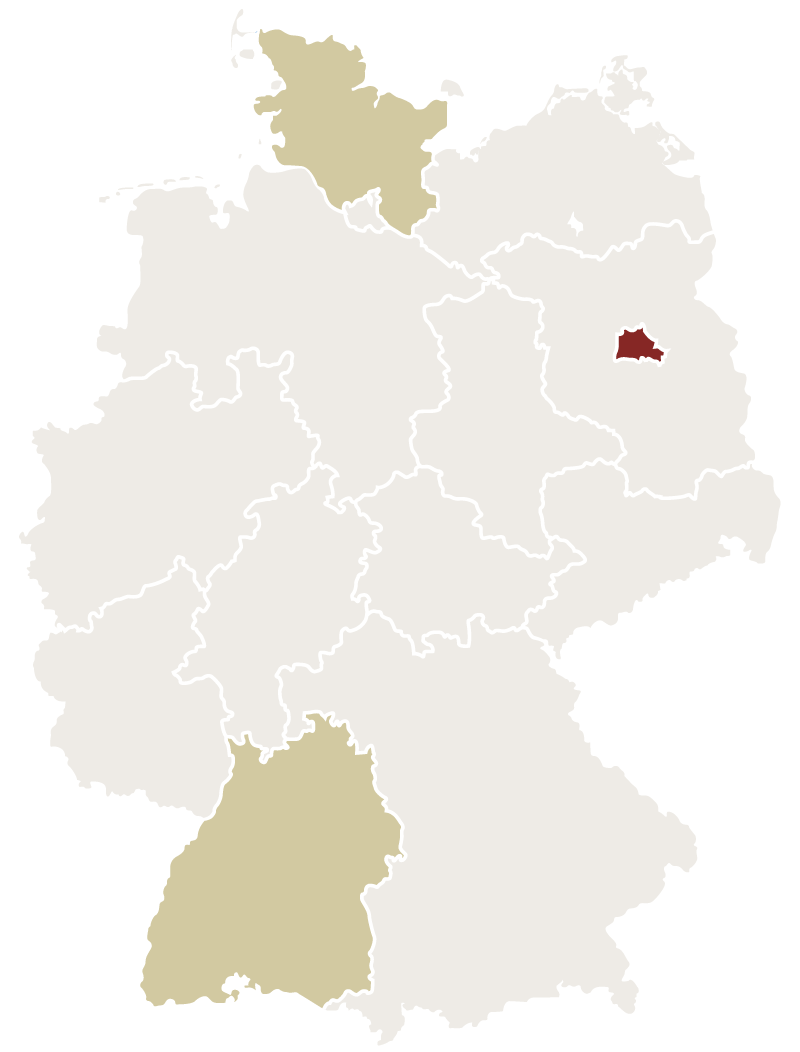
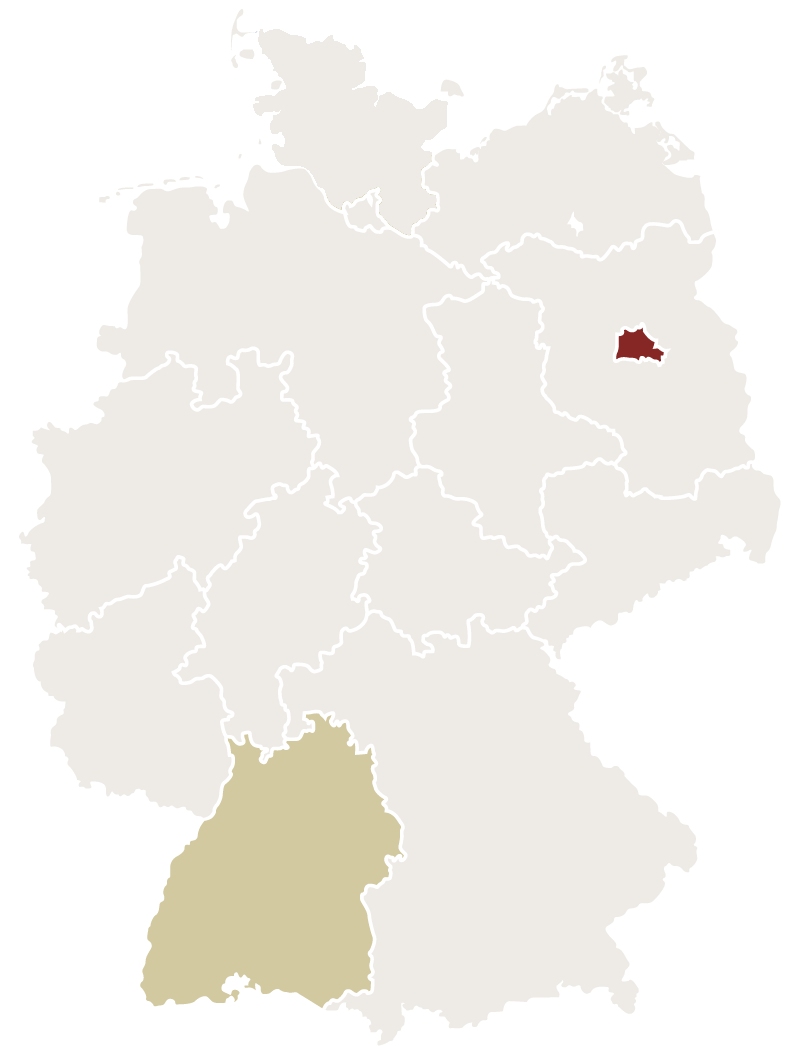
korrekte Reiseziele

Changed region(s): [[0.3125, 0.0304, 0.5625, 0.2433]]

diff --git a/10-reiseland.html b/10-reiseland.html
@@ -197,21 +197,21 @@
                             <img src="assets/images/maps/map-italy-default.png" usemap="#map_it_side" width="800" height="937" alt="" class="img-full">
                             <div class="output red-text"></div>
                             <map name="map_it_side" data-src-default="assets/images/maps/map-italy-default.png" data-parentboxid="sidecontent_map_italy">
-								<area shape="poly" coords="413,118,411,122,400,119,395,124,387,120,384,111,379,108,378,98,383,92,378,85,373,84,373,78,383,72,383,64,394,64,391,60,395,56,400,57,399,46,407,50,424,51,430,55,438,52,457,57,456,64,450,64,449,70,442,74,439,80,441,86,445,83,450,88,454,87,455,91,445,99,445,105,448,107,451,104,454,108,451,114,451,121,457,121,466,127,470,136,469,141,458,141,458,139,463,138,454,126,449,124,448,129,436,134,439,130,425,126,420,130,424,132,419,137,415,123" alt="Friaul-Julisch Venetien" data-id="it_side-1" data-src-target="assets/images/maps/map-italy-friauljulischvenetien.png" data-title-cord-x="65" data-title-cord-y="5" href="10-reiseland.html#venetien" />
-								<area shape="poly" coords="358,46,356,55,350,59,343,58,341,61,346,62,343,71,339,73,346,81,351,88,344,94,334,95,332,107,330,108,322,102,313,105,314,110,311,111,309,109,299,131,291,129,286,132,280,127,283,122,280,117,271,116,268,120,264,120,259,114,260,110,257,102,260,99,260,95,264,91,264,84,266,81,263,76,265,74,262,70,268,69,268,62,264,60,261,58,258,55,259,46,254,44,254,40,257,35,257,32,261,26,261,26,272,24,277,29,277,29,276,32,293,35,300,18,300,18,312,15,319,17,322,14,324,17,329,13,329,13,339,17,360,8,366,7,366,13,361,14,366,25,370,24,372,27,374,34,382,42,376,50,365,51" alt="Trentino-Südtirol" data-id="it_side-2" data-src-target="assets/images/maps/map-italy-trentinosuedtirol.png" data-title-cord-x="65" data-title-cord-y="5" href="10-reiseland.html#suedtirol" />
-								<area shape="poly" coords="267,137,267,154,271,154,271,164,276,164,285,174,288,174,293,179,294,184,300,181,306,187,312,196,303,197,300,200,293,196,282,200,277,198,275,198,273,193,268,193,263,200,253,197,252,193,250,192,247,193,235,186,232,189,228,185,225,179,223,180,219,177,218,178,220,181,215,183,211,179,209,184,206,182,205,178,198,178,198,182,191,180,181,196,185,200,181,209,182,216,174,217,172,204,168,204,165,202,165,199,162,193,162,191,159,188,157,189,156,182,153,182,147,185,144,184,141,184,140,176,136,172,137,169,133,159,136,154,142,155,144,161,150,156,148,152,153,152,151,143,147,142,144,125,138,117,142,112,141,106,150,96,151,88,158,92,158,95,155,95,155,99,162,106,161,114,168,115,171,109,166,102,167,94,172,95,172,90,185,77,186,65,184,61,186,55,191,56,194,59,197,55,199,57,195,61,201,72,211,75,212,70,227,68,229,74,233,77,233,81,240,79,236,72,239,65,233,63,234,53,236,48,245,46,249,53,257,53,259,59,267,63,267,68,261,70,263,74,262,77,265,81,263,85,263,91,258,95,259,99,256,101,259,110,258,115,263,122,270,121,271,117,279,119,274,131" alt="Lombardei" data-id="it_side-3" data-src-target="assets/images/maps/map-italy-lombardei.png" data-title-cord-x="65" data-title-cord-y="8" href="10-reiseland.html#lombardei" />
+								<area shape="poly" coords="413,118,411,122,400,119,395,124,387,120,384,111,379,108,378,98,383,92,378,85,373,84,373,78,383,72,383,64,394,64,391,60,395,56,400,57,399,46,407,50,424,51,430,55,438,52,457,57,456,64,450,64,449,70,442,74,439,80,441,86,445,83,450,88,454,87,455,91,445,99,445,105,448,107,451,104,454,108,451,114,451,121,457,121,466,127,470,136,469,141,458,141,458,139,463,138,454,126,449,124,448,129,436,134,439,130,425,126,420,130,424,132,419,137,415,123" alt="Friaul" data-id="it_side-1" data-src-target="assets/images/maps/map-italy-friauljulischvenetien.png" data-title-cord-x="65" data-title-cord-y="5" href="10-reiseland.html#venetien" />
+								<area shape="poly" coords="358,46,356,55,350,59,343,58,341,61,346,62,343,71,339,73,346,81,351,88,344,94,334,95,332,107,330,108,322,102,313,105,314,110,311,111,309,109,299,131,291,129,286,132,280,127,283,122,280,117,271,116,268,120,264,120,259,114,260,110,257,102,260,99,260,95,264,91,264,84,266,81,263,76,265,74,262,70,268,69,268,62,264,60,261,58,258,55,259,46,254,44,254,40,257,35,257,32,261,26,261,26,272,24,277,29,277,29,276,32,293,35,300,18,300,18,312,15,319,17,322,14,324,17,329,13,329,13,339,17,360,8,366,7,366,13,361,14,366,25,370,24,372,27,374,34,382,42,376,50,365,51" alt="Südtirol" data-id="it_side-2" data-src-target="assets/images/maps/map-italy-trentinosuedtirol.png" data-title-cord-x="65" data-title-cord-y="5" href="10-reiseland.html#suedtirol" />
+								<!--area shape="poly" coords="267,137,267,154,271,154,271,164,276,164,285,174,288,174,293,179,294,184,300,181,306,187,312,196,303,197,300,200,293,196,282,200,277,198,275,198,273,193,268,193,263,200,253,197,252,193,250,192,247,193,235,186,232,189,228,185,225,179,223,180,219,177,218,178,220,181,215,183,211,179,209,184,206,182,205,178,198,178,198,182,191,180,181,196,185,200,181,209,182,216,174,217,172,204,168,204,165,202,165,199,162,193,162,191,159,188,157,189,156,182,153,182,147,185,144,184,141,184,140,176,136,172,137,169,133,159,136,154,142,155,144,161,150,156,148,152,153,152,151,143,147,142,144,125,138,117,142,112,141,106,150,96,151,88,158,92,158,95,155,95,155,99,162,106,161,114,168,115,171,109,166,102,167,94,172,95,172,90,185,77,186,65,184,61,186,55,191,56,194,59,197,55,199,57,195,61,201,72,211,75,212,70,227,68,229,74,233,77,233,81,240,79,236,72,239,65,233,63,234,53,236,48,245,46,249,53,257,53,259,59,267,63,267,68,261,70,263,74,262,77,265,81,263,85,263,91,258,95,259,99,256,101,259,110,258,115,263,122,270,121,271,117,279,119,274,131" alt="Lombardei" data-id="it_side-3" data-src-target="assets/images/maps/map-italy-lombardei.png" data-title-cord-x="65" data-title-cord-y="8" href="10-reiseland.html#lombardei" /-->
 								<area shape="poly" coords="175,223,170,226,158,215,153,219,155,223,156,227,151,225,146,231,144,222,136,224,135,230,124,229,121,232,114,226,109,231,111,236,101,246,100,259,95,258,95,263,84,262,80,260,78,264,76,264,74,256,57,261,32,248,28,240,26,231,28,230,25,222,32,216,34,207,40,208,38,202,33,192,29,192,21,186,21,177,16,177,15,169,27,165,28,168,36,163,38,160,44,161,47,153,50,146,45,140,49,136,53,140,58,136,64,137,70,132,75,130,85,135,91,131,97,131,97,123,99,120,95,116,97,97,105,96,109,86,112,87,116,78,113,72,118,70,126,63,126,59,131,57,136,58,133,76,140,79,144,88,149,89,148,96,140,106,141,112,137,117,139,119,143,126,147,143,150,144,152,151,148,151,149,156,145,159,142,154,136,154,132,158,135,169,135,174,139,177,140,184,147,186,155,183,154,189,157,190,160,190,165,204,171,206,173,218" alt="Piemont" data-id="it_side-4" data-src-target="assets/images/maps/map-italy-piemont.png" data-title-cord-x="65" data-title-cord-y="8" href="10-reiseland.html#piemont" />
 								<area shape="poly" coords="214,277,189,257,183,256,174,247,174,251,168,247,166,244,145,238,126,247,123,260,112,262,110,269,105,274,107,277,97,285,76,291,72,293,70,291,63,291,63,281,77,265,80,265,80,262,95,264,97,263,96,259,101,260,102,247,112,236,111,231,114,228,121,234,125,230,136,230,137,225,142,224,145,232,152,227,158,228,155,219,158,217,169,227,176,225,175,221,180,222,184,227,187,224,193,230,188,241,195,239,201,241,205,247,214,256,214,261,216,260,218,265,221,264,222,269,226,269,226,275,220,275,213,270" alt="Ligurien" data-id="it_side-5" data-src-target="assets/images/maps/map-italy-ligurien.png" data-title-cord-x="3" data-title-cord-y="34" href="10-reiseland.html#ligurien" />
 								<area shape="poly" coords="371,199,370,205,376,212,374,215,369,208,369,226,369,242,371,245,376,262,398,283,397,292,392,296,385,292,385,289,374,284,367,289,360,288,360,297,358,303,342,297,331,292,331,289,328,281,336,269,330,270,324,270,327,266,321,266,313,260,306,266,299,266,303,271,290,272,286,269,282,274,272,265,263,266,263,270,253,261,253,259,247,255,239,255,223,242,225,240,216,235,208,244,205,245,202,240,196,238,190,240,194,230,188,223,184,225,181,221,175,220,175,218,183,216,182,209,186,200,183,196,192,181,199,183,199,179,204,179,206,183,209,184,211,182,215,184,221,183,225,181,232,191,236,188,247,194,250,193,252,199,264,201,269,194,272,194,273,198,284,201,292,197,300,202,304,198,313,197,313,194,316,199,320,198,326,200,327,203,339,194,357,195,360,200" alt="Emilia-Romagna" data-id="it_side-6" data-src-target="assets/images/maps/map-italy-emiliaromagna.png" data-title-cord-x="60" data-title-cord-y="19" href="10-reiseland.html#emilia-romagna" />
 								<area shape="poly" coords="368,301,374,307,371,311,368,308,362,311,364,316,357,325,358,327,356,331,354,333,359,339,360,344,363,341,365,343,357,349,353,348,351,349,352,352,345,357,345,366,347,364,349,367,345,378,347,380,342,383,337,387,334,385,336,394,334,396,336,400,326,409,321,407,321,412,323,417,316,419,312,424,308,423,298,421,294,426,288,419,290,417,295,418,294,408,291,408,289,402,284,400,283,393,267,387,269,378,263,373,258,372,253,375,248,379,248,388,246,389,249,393,246,395,243,389,228,391,227,385,232,384,235,386,238,382,242,385,246,380,252,374,251,369,254,365,253,344,246,330,241,324,240,318,237,289,227,275,227,268,222,268,222,263,219,263,215,258,215,256,206,246,212,244,215,237,223,240,222,242,239,257,246,256,252,260,263,272,265,267,272,266,282,276,286,271,290,274,305,272,301,267,306,267,313,262,320,268,324,267,323,271,333,270,327,281,330,293,358,303,362,303" alt="Toskana" data-id="it_side-7" data-src-target="assets/images/maps/map-italy-toskana.png" data-title-cord-x="60" data-title-cord-y="25" href="10-reiseland.html#toskana" />
-								<area shape="poly" coords="473,378,476,389,480,392,484,403,503,424,513,433,516,437,528,441,528,447,531,450,530,456,522,462,523,465,510,480,508,472,505,468,503,470,499,466,493,472,489,472,494,478,487,483,485,481,480,486,474,481,471,481,467,480,463,481,458,474,453,481,449,480,447,475,438,473,437,466,424,456,417,456,415,449,419,448,421,442,428,445,429,449,437,442,429,432,425,427,427,424,423,418,426,414,424,410,427,406,437,407,440,403,436,398,442,398,442,392,446,393,450,385,458,387,461,381" alt="Abruzzen" data-id="it_side-8" data-src-target="assets/images/maps/map-italy-abruzzen.png" data-title-cord-x="68" data-title-cord-y="38" href="10-reiseland.html#abruzzen" />
+								<!-- area shape="poly" coords="473,378,476,389,480,392,484,403,503,424,513,433,516,437,528,441,528,447,531,450,530,456,522,462,523,465,510,480,508,472,505,468,503,470,499,466,493,472,489,472,494,478,487,483,485,481,480,486,474,481,471,481,467,480,463,481,458,474,453,481,449,480,447,475,438,473,437,466,424,456,417,456,415,449,419,448,421,442,428,445,429,449,437,442,429,432,425,427,427,424,423,418,426,414,424,410,427,406,437,407,440,403,436,398,442,398,442,392,446,393,450,385,458,387,461,381" alt="Abruzzen" data-id="it_side-8" data-src-target="assets/images/maps/map-italy-abruzzen.png" data-title-cord-x="68" data-title-cord-y="38" href="10-reiseland.html#abruzzen" /-->
 								<area shape="poly" coords="546,501,554,507,554,511,551,514,556,518,561,519,566,522,563,530,566,536,576,534,585,539,587,545,579,556,573,555,575,569,581,574,578,578,584,580,588,592,597,597,598,603,603,608,602,612,596,617,598,619,595,629,591,625,584,627,580,634,575,633,571,630,567,630,568,628,557,618,554,619,544,611,545,608,545,602,549,601,543,587,533,574,529,577,524,577,518,581,515,579,505,584,495,587,496,585,514,571,512,567,500,560,493,565,489,561,483,569,479,572,472,572,473,566,479,570,483,566,484,556,475,543,476,541,465,525,472,520,472,508,479,503,482,509,486,513,489,511,486,508,487,502,496,502,509,508,513,508,515,512,518,511,522,513,524,509,530,509,532,505,538,508,541,505,544,506" alt="Kampanien" data-id="it_side-9" data-src-target="assets/images/maps/map-italy-kampanien.png" data-title-cord-x="33" data-title-cord-y="63" href="10-reiseland.html#kampanien" />
-								<area shape="poly" coords="647,618,662,618,658,625,662,632,654,642,652,651,655,652,656,659,669,664,672,660,678,668,692,674,692,676,701,680,697,685,698,694,700,697,698,707,704,713,703,719,698,726,691,726,687,723,665,736,660,744,663,769,653,779,649,779,636,796,634,809,628,816,618,815,611,817,597,809,600,804,597,800,600,797,597,790,597,787,611,782,617,759,611,752,611,750,616,748,621,743,631,743,636,739,636,726,628,716,624,706,622,688,618,682,618,678,610,670,606,661,603,647,603,642,600,637,609,630,611,633,614,630,624,640,627,637,632,637,634,636,639,636,642,639,645,631,645,625" alt="Kalabrien" data-id="it_side-10" data-src-target="assets/images/maps/map-italy-kalabrien.png" data-title-cord-x="45" data-title-cord-y="72" href="10-reiseland.html#kalabrien" />
-								<area shape="poly" coords="570,736,571,741,566,741,559,753,557,755,551,763,552,769,555,775,553,778,549,775,550,772,547,766,548,764,538,760,524,762,509,764,508,761,523,758,544,759,543,762,549,763,558,752,568,736" alt="Äolische Inseln" data-id="it_side-11" data-src-target="assets/images/maps/map-italy-aeolischeinseln.png" data-title-cord-x="35" data-title-cord-y="72" href="10-reiseland.html#aoelischeinseln" />
+								<!-- area shape="poly" coords="647,618,662,618,658,625,662,632,654,642,652,651,655,652,656,659,669,664,672,660,678,668,692,674,692,676,701,680,697,685,698,694,700,697,698,707,704,713,703,719,698,726,691,726,687,723,665,736,660,744,663,769,653,779,649,779,636,796,634,809,628,816,618,815,611,817,597,809,600,804,597,800,600,797,597,790,597,787,611,782,617,759,611,752,611,750,616,748,621,743,631,743,636,739,636,726,628,716,624,706,622,688,618,682,618,678,610,670,606,661,603,647,603,642,600,637,609,630,611,633,614,630,624,640,627,637,632,637,634,636,639,636,642,639,645,631,645,625" alt="Kalabrien" data-id="it_side-10" data-src-target="assets/images/maps/map-italy-kalabrien.png" data-title-cord-x="45" data-title-cord-y="72" href="10-reiseland.html#kalabrien" /-->
+								<!-- area shape="poly" coords="570,736,571,741,566,741,559,753,557,755,551,763,552,769,555,775,553,778,549,775,550,772,547,766,548,764,538,760,524,762,509,764,508,761,523,758,544,759,543,762,549,763,558,752,568,736" alt="Äolische Inseln" data-id="it_side-11" data-src-target="assets/images/maps/map-italy-aeolischeinseln.png" data-title-cord-x="35" data-title-cord-y="72" href="10-reiseland.html#aoelischeinseln" /-->
 								<area shape="poly" coords="592,781,599,785,594,789,596,791,590,805,569,831,572,834,568,848,563,853,563,868,572,871,577,876,570,878,573,883,580,894,577,897,566,913,564,916,568,926,564,930,560,925,555,926,551,923,546,922,543,926,535,923,529,919,520,918,516,907,507,898,495,889,485,890,482,891,478,890,474,886,469,886,453,874,444,874,445,871,434,866,434,864,425,856,416,857,412,850,398,849,393,851,347,915,348,920,345,922,337,918,338,913,344,915,392,851,385,841,380,842,373,827,378,827,379,821,374,823,363,817,348,816,347,810,349,810,350,814,366,816,367,809,369,812,366,815,371,817,376,819,380,815,380,807,387,804,392,801,396,801,397,797,393,795,397,794,400,796,400,802,410,809,422,803,417,800,422,794,429,797,431,793,436,791,441,796,440,801,449,803,453,801,452,805,469,814,487,807,491,808,498,808,513,806,521,806,531,802,534,795,544,795,550,792,551,796,558,795,559,798,569,794,570,786,572,786,572,791,585,787" alt="Sizilien" data-id="it_side-12" data-src-target="assets/images/maps/map-italy-sizilien.png" data-title-cord-x="20" data-title-cord-y="87" href="10-reiseland.html#sizilien" />
 								<area shape="poly" coords="768,582,783,599,788,611,788,616,783,621,780,642,774,639,768,639,752,627,754,623,750,621,753,618,752,612,747,610,742,601,719,600,698,592,699,586,692,582,686,583,676,595,671,587,667,587,663,564,655,562,653,565,650,562,646,568,630,555,630,549,623,551,615,546,617,541,615,538,613,538,613,535,607,534,605,531,601,532,602,537,598,534,593,535,588,535,586,537,577,533,567,534,564,529,567,522,552,514,555,510,555,507,547,500,545,501,542,492,545,488,549,490,556,482,554,479,553,467,555,461,569,463,571,464,583,463,586,461,593,462,611,459,617,459,624,462,626,468,625,475,621,478,614,485,609,488,607,493,608,499,617,504,641,517,650,519,655,522,671,527,682,532,695,536,705,547,709,547,717,554,728,556,737,561,740,565,748,565,748,569,751,567,754,571,754,576,763,581" alt="Apulien" data-id="it_side-13" data-src-target="assets/images/maps/map-italy-apulien.png" data-title-cord-x="35" data-title-cord-y="63" href="10-reiseland.html#apulien" />
 								<area shape="poly" coords="200,583,201,590,196,599,194,599,187,608,187,613,189,619,195,624,190,635,193,636,190,639,190,644,187,665,187,670,185,674,183,690,185,693,181,696,180,706,176,711,174,707,167,706,160,700,154,698,151,703,145,699,142,704,144,711,141,720,129,729,120,724,114,730,114,726,111,726,112,721,109,720,109,713,104,710,100,720,94,709,88,706,87,702,85,701,91,698,93,702,92,706,95,711,96,706,99,707,102,705,100,704,100,701,96,696,102,689,98,682,100,678,98,674,103,669,104,665,104,648,109,652,109,644,111,641,110,636,107,636,103,642,102,637,100,628,104,625,101,624,101,622,107,623,109,620,107,616,107,606,107,599,102,597,103,590,102,585,98,580,98,576,91,577,91,573,89,578,87,570,91,569,92,566,88,561,90,559,90,554,93,549,92,542,96,533,98,533,99,530,102,527,105,529,104,534,100,533,97,537,99,539,95,540,96,546,102,553,108,552,112,555,121,553,121,549,130,546,136,546,139,541,139,538,141,538,149,529,152,529,156,529,159,527,158,522,156,520,161,520,163,518,168,525,170,520,169,514,173,516,171,521,175,518,178,519,177,522,180,521,182,524,178,526,174,524,177,533,179,529,183,528,186,533,182,538,192,542,192,544,186,543,185,549,186,551,189,548,190,550,190,554,196,549,197,555,195,558,192,561,195,566,195,569,197,569,196,576" alt="Sardinien" data-id="it_side-14" data-src-target="assets/images/maps/map-italy-sardinien.png" data-title-cord-x="30" data-title-cord-y="63" href="10-reiseland.html#sardinien" />
-								<area shape="poly" coords="434,521,426,524,421,529,417,527,415,521,407,512,402,510,399,511,393,507,389,509,379,493,371,485,361,481,362,475,356,465,351,463,343,455,336,457,328,440,326,434,313,425,316,420,325,418,322,411,323,409,328,411,338,400,336,395,337,392,335,387,338,388,342,384,348,391,343,395,353,401,361,399,365,402,364,405,367,408,367,413,374,416,376,415,377,419,378,425,382,424,384,426,389,421,389,418,391,420,397,419,396,416,400,411,404,411,407,407,407,405,410,405,416,403,421,401,425,402,427,398,426,394,427,391,437,396,435,398,439,403,436,406,426,405,423,411,424,414,422,417,425,425,424,427,435,442,430,448,429,445,421,442,419,447,415,449,416,456,424,457,437,466,437,473,446,475,447,479,454,481,458,476,463,482,470,481,475,483,479,487,479,495,481,497,480,502,471,507,471,520,465,525,461,525,455,524,452,525,453,530,448,527,439,523" alt="Latium" data-id="it_side-15" data-src-target="assets/images/maps/map-italy-latium.png" data-title-cord-x="34" data-title-cord-y="58" href="10-reiseland.html#latium" />
+								<!-- area shape="poly" coords="434,521,426,524,421,529,417,527,415,521,407,512,402,510,399,511,393,507,389,509,379,493,371,485,361,481,362,475,356,465,351,463,343,455,336,457,328,440,326,434,313,425,316,420,325,418,322,411,323,409,328,411,338,400,336,395,337,392,335,387,338,388,342,384,348,391,343,395,353,401,361,399,365,402,364,405,367,408,367,413,374,416,376,415,377,419,378,425,382,424,384,426,389,421,389,418,391,420,397,419,396,416,400,411,404,411,407,407,407,405,410,405,416,403,421,401,425,402,427,398,426,394,427,391,437,396,435,398,439,403,436,406,426,405,423,411,424,414,422,417,425,425,424,427,435,442,430,448,429,445,421,442,419,447,415,449,416,456,424,457,437,466,437,473,446,475,447,479,454,481,458,476,463,482,470,481,475,483,479,487,479,495,481,497,480,502,471,507,471,520,465,525,461,525,455,524,452,525,453,530,448,527,439,523" alt="Latium" data-id="it_side-15" data-src-target="assets/images/maps/map-italy-latium.png" data-title-cord-x="34" data-title-cord-y="58" href="10-reiseland.html#latium" /-->
 								<area shape="poly" coords="408,139,392,150,381,154,380,157,374,158,370,174,372,178,372,185,377,189,386,196,380,211,376,211,371,205,371,199,361,199,359,194,339,194,328,201,326,198,318,198,312,192,300,180,295,183,293,177,289,173,285,173,278,164,272,162,272,152,268,154,268,138,274,131,279,120,281,119,282,122,279,127,286,133,293,130,300,132,309,110,315,111,314,106,322,103,330,108,333,107,334,95,343,94,352,88,340,73,345,70,347,61,343,61,343,59,352,59,358,56,358,48,365,52,377,50,384,43,388,47,391,45,399,47,399,56,395,55,391,60,392,63,384,63,382,72,373,78,373,85,378,85,380,93,378,97,378,108,384,112,386,121,397,125,399,120,412,123,413,120,419,138,413,137" alt="Venetien" data-id="it_side-16" data-src-target="assets/images/maps/map-italy-venetien.png" data-title-cord-x="65" data-title-cord-y="12" href="10-reiseland.html#venetien" />
                             </map>
                         </div>

diff --git a/inc/header.inc.html b/inc/header.inc.html
@@ -29,21 +29,23 @@
 	                    <li><a href="10-reisethema.html">Kochreisen</a></li>
 	                    <li><a href="10-reisethema.html">Genusswandern</a></li>
 	                    <li><a href="10-reisethema.html">Trüffelreise</a></li>
+                    	<li><a href="10-reisethema.html">Hausmacher-Metzgerei</a></li>
 	                    <li><a href="10-reisethema.html">Kulinarische Städtereisen</a></li>
 	                    <li><a href="10-reisethema.html">Kulinarik &amp; Kunst</a></li>
 	                    <li><a href="10-reisethema.html">Vegetarische Reisen</a></li>
                 	</ul>
                 </li>
                 <li>
-                	<a href="10-ueberuns.html" data-target="#Ueber-uns" class="dropdown-toggle">Über uns</a>
+                	<a href="10-ueberuns.html" data-target="#Ueber-uns" class="dropdown-toggle">Sapio</a>
                 	<ul class="nav navbar-subnav">
+	                    <li><a href="10-ueber-uns.html">Über uns</a></li>
 	                    <li><a href="10-team.html">Unser Team</a></li>
 	                    <li><a href="#">Beratung</a></li>
 	                    <li><a href="#">Nachhaltigkeit &amp; CSR</a></li>
 	                    <li><a href="10-incentivereisen.html">Incentive Reisen</a></li>
 	                    <li><a href="#">Offene Stellen</a></li>
 	                    <li><a href="10-presse.html">Presse</a></li>
-	                    <li><a href="10-ueberuns.html">Freunde</a></li>
+	                    <li><a href="#">Freunde</a></li>
 	                </ul>
                 </li>
             </ul>
@@ -68,14 +70,12 @@
                 <span>
                     <h6 data-parentboxid="Reiseziele"><a href="10-reiseland.html" title="" data-id="it-0">Italien</a></h6>
                     <ul>
-                        <li data-parentboxid="Reiseziele"><a href="10-reiseland.html" title="" data-id="it-1">Abruzzen</a></li>
                         <li data-parentboxid="Reiseziele"><a href="10-reiseland.html" title="" data-id="it-2">Apulien</a></li>
-                        <li data-parentboxid="Reiseziele"><a href="10-reiseland.html" title="" data-id="it-3">Äolische Inseln</a></li>
                         <li data-parentboxid="Reiseziele"><a href="10-reiseland.html" title="" data-id="it-4">Emilia-Romagna</a></li>
-                        <li data-parentboxid="Reiseziele"><a href="10-reiseland.html" title="" data-id="it-5">Friaul Julisch Venetien</a></li>
-                        <li data-parentboxid="Reiseziele"><a href="10-reiseland.html" title="" data-id="it-6">Latium</a></li>
+                        <li data-parentboxid="Reiseziele"><a href="10-reiseland.html" title="" data-id="it-5">Friaul</a></li>
+                        <li data-parentboxid="Reiseziele"><a href="10-reiseland.html" title="" data-id="it-8">Kampanien</a></li>
                         <li data-parentboxid="Reiseziele"><a href="10-reiseland.html" title="" data-id="it-9">Ligurien</a></li>
-                        <li data-parentboxid="Reiseziele"><a href="10-reiseland.html" title="" data-id="it-10">Lombardei</a></li>
+                        <li data-parentboxid="Reiseziele"><a href="10-reiseland.html" title="" data-id="it-11">Piemont</a></li>
                     </ul>
                 </span>
             </div>
@@ -83,11 +83,9 @@
                 <span>
                     <h6>&nbsp;</h6>
                     <ul>
-                        <li data-parentboxid="Reiseziele"><a href="10-reiseland.html" title="" data-id="it-11">Piemont</a></li>
                         <li data-parentboxid="Reiseziele"><a href="10-reiseland.html" title="" data-id="it-12">Sardinien</a></li>
                         <li data-parentboxid="Reiseziele"><a href="10-reiseland.html" title="" data-id="it-13">Sizilien</a></li>
-                        <li data-parentboxid="Reiseziele"><a href="10-reiseland.html" title="" data-id="it-14">Trentino-Südtirol</a></li>
-                        <li data-parentboxid="Reiseziele"><a href="10-reiseland.html" title="" data-id="it-15">Südtoskana</a></li>
+                        <li data-parentboxid="Reiseziele"><a href="10-reiseland.html" title="" data-id="it-14">Südtirol</a></li>
                         <li data-parentboxid="Reiseziele"><a href="10-reiseland.html" title="" data-id="it-16">Toskana</a></li>
                         <li data-parentboxid="Reiseziele"><a href="10-reiseland.html" title="" data-id="it-18">Venetien</a></li>
                     </ul>
@@ -106,7 +104,6 @@
                     <ul>
                         <li data-parentboxid="Reiseziele"><a href="10-reiseland.html" title="" data-id="de-1">Baden-Württemberg</a></li>
                         <li data-parentboxid="Reiseziele"><a href="10-reiseland.html" title="" data-id="de-2">Berlin</a></li>
-                        <li data-parentboxid="Reiseziele"><a href="10-reiseland.html" title="" data-id="de-3">Schleswig-Holstein</a></li>
                     </ul>
                 </span>
             </div>
@@ -124,15 +121,16 @@
         </div>
         <div id="Reisethemen" class="row extendedmenu">
             <div class="col-xs-12 col-sm-12 col-md-8 markHeadingOfList">
-               	<img src="https://dummyimage.com/290x195/cccccc/000000.png&text=dummy" alt="" class="img-rounded markImage pull-left">
+               	<img src="https://dummyimage.com/327x220/cccccc/000000.png&text=dummy" alt="" class="img-rounded markImage pull-left">
                 <ul>
                     <li><a href="10-reisethema.html" class="fg-cap" title="" data-id="0">Weinreisen</a></li>
                     <li><a href="10-reisethema.html" class="fg-cap" title="" data-id="1">Kochreisen</a></li>
                     <li><a href="10-reisethema.html" class="fg-cap" title="" data-id="2">Genusswandern</a></li>
-                    <li><a href="10-reisethema.html" class="fg-cap" title="" data-id="3">Trüffelreise</a></li>
-                    <li><a href="10-reisethema.html" class="fg-cap" title="" data-id="4">Kulinarische Städtereisen</a></li>
-                    <li><a href="10-reisethema.html" class="fg-cap" title="" data-id="5">Kulinarik &amp; Kunst</a></li>
-                    <li><a href="10-reisethema.html" class="fg-cap" title="" data-id="6">Vegetarische Reisen</a></li>
+                    <li><a href="10-reisethema.html" class="fg-cap" title="" data-id="3">Trüffelreisen</a></li>
+                    <li><a href="10-reisethema.html" class="fg-cap" title="" data-id="4">Hausmacher-Metzgerei</a></li>
+                    <li><a href="10-reisethema.html" class="fg-cap" title="" data-id="5">Kulinarische Städtereisen</a></li>
+                    <li><a href="10-reisethema.html" class="fg-cap" title="" data-id="6">Kulinarik &amp; Kunst</a></li>
+                    <li><a href="10-reisethema.html" class="fg-cap" title="" data-id="7">Vegetarische Reisen</a></li>
                 </ul>
             </div>
             <div class="hidden-xs hidden-sm col-md-4">
@@ -142,13 +140,14 @@
         <div id="Ueber-uns" class="row extendedmenu">
             <div class="col-xs-12">
                 <ul>
+	                <li><a href="10-ueber-uns.html" class="fg-cap" title="">Über uns</a></li>
                     <li><a href="10-team.html" class="fg-cap" title="">Unser Team</a></li>
                     <li><a href="#" class="fg-cap" title="">Beratung</a></li>
                     <li><a href="#" class="fg-cap" title="">Nachhaltigkeit &amp; CSR</a></li>
                     <li><a href="10-incentivereisen.html" class="fg-cap" title="">Incentive Reisen</a></li>
                     <li><a href="#" class="fg-cap" title="">Jobs</a></li>
                     <li><a href="10-presse.html" class="fg-cap" title="">Presse</a></li>
-                    <li><a href="10-ueberuns.html" class="fg-cap" title="">Freunde</a></li>
+                    <li><a href="#" class="fg-cap" title="">Freunde</a></li>
                 </ul>
             </div>
         </div>

diff --git a/inc/fintravelbox.inc.html b/inc/fintravelbox.inc.html
@@ -5,44 +5,38 @@
             <select name="reiseziel" id="reiseziel">
                 <option value="-1" selected>&nbsp;&nbsp;&nbsp;beliebig</option>
                 <option class="optionGroup">Italien</option>
-                <option value="0">&nbsp;&nbsp;&nbsp;Südtirol</option>
-                <option value="1">&nbsp;&nbsp;&nbsp;Triest</option>
-                <option value="2">&nbsp;&nbsp;&nbsp;Venedig</option>
-                <option value="4">&nbsp;&nbsp;&nbsp;Emilia</option>
-                <option value="6">&nbsp;&nbsp;&nbsp;Piemont</option>
-                <option value="8">&nbsp;&nbsp;&nbsp;Valle Maira</option>
-                <option value="9">&nbsp;&nbsp;&nbsp;Cinque Terre</option>
-                <option value="10">&nbsp;&nbsp;&nbsp;Südtoskana</option>
-                <option value="10">&nbsp;&nbsp;&nbsp;Rom</option>
-                <option value="11">&nbsp;&nbsp;&nbsp;Amalfiküste</option>
-                <option value="12">&nbsp;&nbsp;&nbsp;Apulien</option>
-                <option value="13">&nbsp;&nbsp;&nbsp;Äolische Inseln</option>
-                <option value="15">&nbsp;&nbsp;&nbsp;Ost-Sizilien</option>
+                <option value="0">&nbsp;&nbsp;&nbsp;Apulien</option>
+                <option value="1">&nbsp;&nbsp;&nbsp;Emilia-Romagna</option>
+                <option value="2">&nbsp;&nbsp;&nbsp;Friaul</option>
+                <option value="4">&nbsp;&nbsp;&nbsp;Kampanien</option>
+                <option value="6">&nbsp;&nbsp;&nbsp;Ligurien</option>
+                <option value="8">&nbsp;&nbsp;&nbsp;Piemont</option>
+                <option value="9">&nbsp;&nbsp;&nbsp;Sardinien</option>
+                <option value="10">&nbsp;&nbsp;&nbsp;Sizilien</option>
+                <option value="10">&nbsp;&nbsp;&nbsp;Südtirol</option>
+                <option value="11">&nbsp;&nbsp;&nbsp;Toskana</option>
+                <option value="12">&nbsp;&nbsp;&nbsp;Venetien</option>
                 <option class="optionGroup">Frankreich</option>
                 <option value="16">&nbsp;&nbsp;&nbsp;Burgund</option>
                 <option value="17">&nbsp;&nbsp;&nbsp;Languedoc</option>
                 <option class="optionGroup">Deutschland</option>
                 <option value="18">&nbsp;&nbsp;&nbsp;Berlin</option>
-                <option value="19">&nbsp;&nbsp;&nbsp;Rheinland</option>
-                <option value="20">&nbsp;&nbsp;&nbsp;Schwäbische Alb</option>
+                <option value="20">&nbsp;&nbsp;&nbsp;Baden-Württemberg</option>
             </select>
         </div>
         <label for="reisemonat" class="col-xs-4 col-sm-1 col-md-1 control-label">Reisezeit: </label>
         <div class="col-xs-8 col-sm-3 col-md-2">
             <select name="reisemonat" id="reisemonat">
                 <option value="-1" selected>&nbsp;&nbsp;&nbsp;beliebig</option>
-                <option class="optionGroup">2016</option>
-                <option value="2016-09">&nbsp;&nbsp;&nbsp;September</option>
-                <option value="2016-10">&nbsp;&nbsp;&nbsp;Oktober</option>
-                <option value="2016-11" selected>&nbsp;&nbsp;&nbsp;November</option>
-                <option value="2016-12">&nbsp;&nbsp;&nbsp;Dezember</option>
                 <option class="optionGroup">2017</option>
-                <option value="2017-01">&nbsp;&nbsp;&nbsp;Januar</option>
                 <option value="2017-02">&nbsp;&nbsp;&nbsp;Februar</option>
                 <option value="2017-03">&nbsp;&nbsp;&nbsp;März</option>
                 <option value="2017-04">&nbsp;&nbsp;&nbsp;April</option>
-                <option value="2017-05">&nbsp;&nbsp;&nbsp;May</option>
+                <option value="2017-05">&nbsp;&nbsp;&nbsp;Mai</option>
                 <option value="2017-06">&nbsp;&nbsp;&nbsp;Juni</option>
+                <option value="2017-06">&nbsp;&nbsp;&nbsp;August</option>
+                <option value="2017-06">&nbsp;&nbsp;&nbsp;September</option>
+                <option value="2017-06">&nbsp;&nbsp;&nbsp;Oktober</option>
             </select>
         </div>
         <div class="col-xs-8 col-xs-offset-4 col-sm-4 col-sm-offset-0 col-md-3 paddingleft15">

diff --git a/index.html b/index.html
@@ -109,7 +109,7 @@
                     </section>
                     <section class="row paddingsmallercols p0axs">
                         <h2 class="col-xs-12 col-md-4 margintop0">Unsere Reiseleiter</h2>
-                        <h2 class="col-md-8 margintop0 hidden-xs hidden-sm">Neugigkeiten</h2>
+                        <h2 class="col-md-8 margintop0 hidden-xs hidden-sm">Neuigkeiten</h2>
                     </section>
                     <section class="row paddingsmallercols" style="padding-bottom:12px;">
                         <div class="col-xs-12 col-md-4">
@@ -117,13 +117,13 @@
                                 <div class="carousel-inner">
                                     <a href="#" class="item active hiddenlink">
                                         <figure class="inlinecaption">
-                                            <img src="assets/images/start/reiseleiter.jpg" alt="" class="center-block img-rounded" />
+                                            <img src="assets/images/start/reiseleiter.jpg" alt="" class="center-block img-rounded img-full">
                                             <figcaption class="text-center singleline fg-size90">Bert Van den Abeele</figcaption>
                                         </figure>
                                     </a>
                                     <a href="#" class="item hiddenlink">
                                         <figure class="inlinecaption">
-                                            <img src="assets/images/start/reiseleiter.jpg" alt="" class="center-block img-rounded" />
+                                            <img src="assets/images/start/reiseleiter.jpg" alt="" class="center-block img-rounded img-full">
                                             <figcaption class="text-center singleline fg-size90">Pät von der Behrendt</figcaption>
                                         </figure>
                                     </a>
@@ -138,7 +138,7 @@
                                 </a>
                             </aside>
                         </div>
-                        <h2 class="col-xs-12 margintop0 visible-xs visible-sm">Neugigkeiten</h2>
+                        <h2 class="col-xs-12 margintop0 visible-xs visible-sm">Neuigkeiten</h2>
                         <a href="10-presse.html" class="col-xs-12 col-md-4 hiddenlink">
                             <figure class="inlinecaption">
                                 <img src="assets/images/start/news1.jpg" alt="" class="img-rounded img-full" />
@@ -179,7 +179,7 @@
                         <a href="10-reisethema.html" class="col-xs-6 col-sm-4 col-md-2 col-lg-2 paddinleftright5 hiddenlink">
                             <figure class="inlinecaption">
                                 <img src="assets/images/start/trueffelreise.jpg" alt="" class="img-rounded img-full" />
-                                <figcaption class="text-center singleline fg-size90">Trüffelreise</figcaption>
+                                <figcaption class="text-center singleline fg-size90">Trüffelreisen</figcaption>
                             </figure>
                         </a>
                         <a href="10-reisethema.html" class="col-xs-6 col-sm-4 col-md-2 col-lg-2 paddinleftright5 hiddenlink">
@@ -191,7 +191,7 @@
                         <a href="10-reisethema.html" class="col-xs-6 col-sm-4 col-md-2 col-lg-2 paddinleftright5 hiddenlink">
                             <figure class="inlinecaption">
                                 <img src="assets/images/start/kulinarik.jpg" alt="" class="img-rounded img-full" />
-                                <figcaption class="text-center singleline fg-size90">Kulinarik &amp; Kunst</figcaption>
+                                <figcaption class="text-center fg-size90">Kulinarik<br>&amp; Kunst</figcaption>
                             </figure>
                         </a>
                     </section>

diff --git a/assets/scripts/js.js b/assets/scripts/js.js
@@ -15,7 +15,7 @@ var extendedmenuReisezieleItems = {  "fr": [
                                 {"txt":"Apulien"},
                                 {"txt":"Aeolische Inseln"},
                                 {"txt":"Emilia-Romagna"},
-                                {"txt":"Friaul Julisch Venetien"},
+                                {"txt":"Friaul"},
                                 {"txt":"Latium"},
                                 {"txt":"Kalabrien"},
                                 {"txt":"Kampanien"},
@@ -24,10 +24,10 @@ var extendedmenuReisezieleItems = {  "fr": [
                                 {"txt":"Piemont"},
                                 {"txt":"Sardinien"},
                                 {"txt":"Sizilien"},
-                                {"txt":"Trentino-Südtirol"},
+                                {"txt":"Südtirol"},
                                 {"txt":"Südtoskana"},
                                 {"txt":"Toskana"},
-                                {"txt":"Trentino-Südtirol"},
+                                {"txt":"Südtirol"},
                                 {"txt":"Venetien"}
                             ]
                         };
@@ -36,6 +36,7 @@ var extendedmenuReisethemenItems = [
                                 {"image":"https://dummyimage.com/285x188/cccccc/000000.png&text=dummy","txt":"Kochreisen"},
                                 {"image":"https://dummyimage.com/285x188/cccccc/000000.png&text=dummy","txt":"Genusswandern"},
                                 {"image":"https://dummyimage.com/285x188/cccccc/000000.png&text=dummy","txt":"Trüffelreisen"},
+                                {"image":"https://dummyimage.com/285x188/cccccc/000000.png&text=dummy","txt":"Hausmacher-Metzgerei"},
                                 {"image":"https://dummyimage.com/285x188/cccccc/000000.png&text=dummy","txt":"Kulinarische Städtereisen"},
                                 {"image":"https://dummyimage.com/285x188/cccccc/000000.png&text=dummy","txt":"Kulinarik & Kunst"},
                                 {"image":"https://dummyimage.com/285x188/cccccc/000000.png&text=dummy","txt":"Vegetarische Reisen"}

diff --git a/inc/buchungsanfragemodal.inc.html b/inc/buchungsanfragemodal.inc.html
@@ -21,7 +21,7 @@
                         <div class="col-xs-12 col-md-10 paddingright30 paddingleft30">
                             <div class="row margintop30 inputline">
                                 <div class="col-xs-12 btn-red padding15 img-rounded marginbottom15 errorbox" style="display:none;">
-                                    <p>Es wurden fehlerhafte Angaben gefunden. Bitte wählen Sie das Feld / die Felder <span></span> aus, bevor Sie zur nächsten Seite wechseln.</p>
+                                    <p>Bitte wählen Sie das Feld / die Felder <span></span> aus, bevor Sie zur nächsten Seite wechseln.</p>
                                 </div>
                                 <span class="form-group">
                                     <label for="travel_date" class="col-xs-12 col-sm-3 control-label text-left">Reisetermin*:</label>

diff --git a/assets/styles/css.css b/assets/styles/css.css
@@ -219,7 +219,7 @@ body>header a:hover{
     height: 300px;
 }
 #Reisethemen {
-    height: 260px;
+    height: 280px;
 }
 #Ueber-uns {
     -webkit-transform: translateX(80px) translateX(-50%);
@@ -229,7 +229,7 @@ body>header a:hover{
 	padding-left: 15px;
 }
 #Reisethemen img {
-	margin-right: 65px;
+	margin-right: 35px;
 }
 .markTxt {
 	font-size: 90%;
@@ -659,7 +659,7 @@ blockquote img {
 }
 .inlinecaption figcaption.singleline{
     line-height: 2.4rem;
-    padding: 20px 5px;
+    padding: 20px 0;
 }
 label.customcheck {
     -webkit-box-shadow: none !important;
